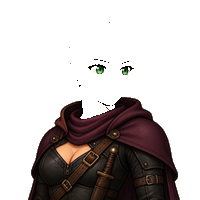
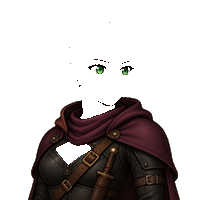
Portraits: female Rogue neckline follows the skin colour
Claude-Session: https://claude.ai/code/session_01M8ejkLTav7LEMdtajuWjkN

Changed region(s): [[0.27, 0.69, 0.45, 0.84]]

diff --git a/art_source/portrait_pipeline/build_library.py b/art_source/portrait_pipeline/build_library.py
@@ -71,7 +71,7 @@ def skin_mask(im, fg, seed=(92, 118)):
     # grow into the soft shading and line pixels around the skin, so no original-coloured fringe is left behind
     return ndi.binary_dilation(core, iterations=6, mask=huefam(h) & fg & zone) | core
 
-BARE_SKIN = {'brawler'}          # outfits that show arms or chest: their skin must follow the skin ramp too
+BARE_SKIN = {'brawler', 'rogue'}          # outfits that show arms or chest: their skin must follow the skin ramp too
 def body_skin(im, fg):
     """Bare arms, shoulders and chest: big, lit skin-tone areas below the chin, grown a little into their shading."""
     h = hsv(im)

diff --git a/art_source/portrait_pipeline/README.md b/art_source/portrait_pipeline/README.md
@@ -9,7 +9,7 @@ How `res://portraits/parts/` was made. You only need this to add or redo portrai
 2. `build_library.py` registers each image to its base, cuts out the changed part and writes the
    layers: fixed colour parts, plus grayscale value maps for skin, iris and hair. Output goes to
    `library/` (the game copy is `res://portraits/parts/`).
-   Outfits that show bare skin (`BARE_SKIN`, now only the Brawler) also put their arms and chest on
+   Outfits that show bare skin (`BARE_SKIN`: Brawler arms and chest, female Rogue neckline) also put their arms and chest on
    the skin layer, so they follow the hero's skin colour.
 3. `palettes.json` holds the skin, hair and eye colour ramps (also copied to `res://portraits/`).
 4. `compose.py` is the reference compositor and random roller; it writes `contact_sheet.png`.
